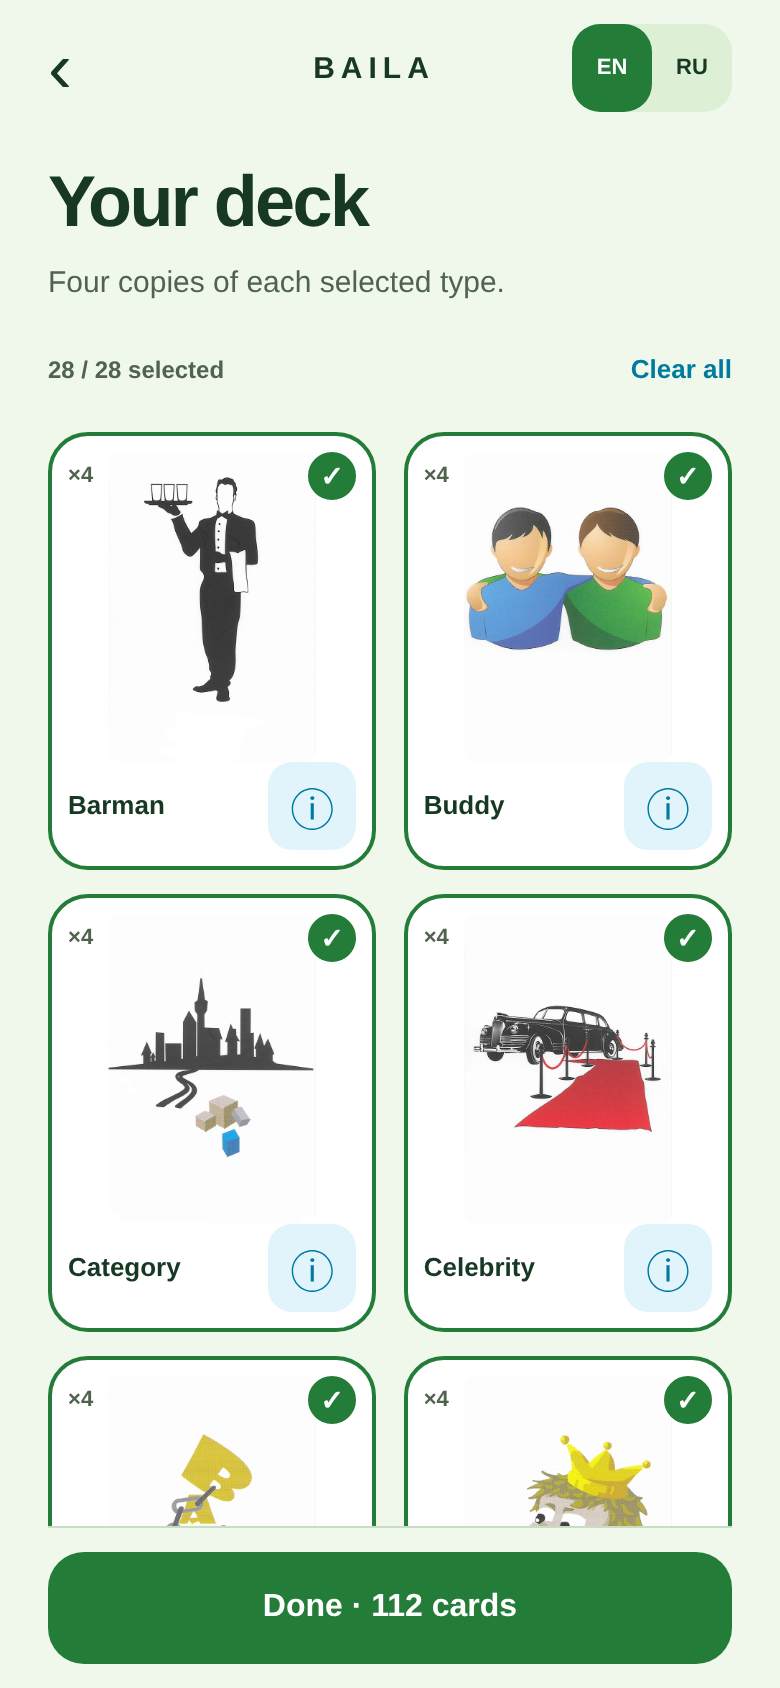
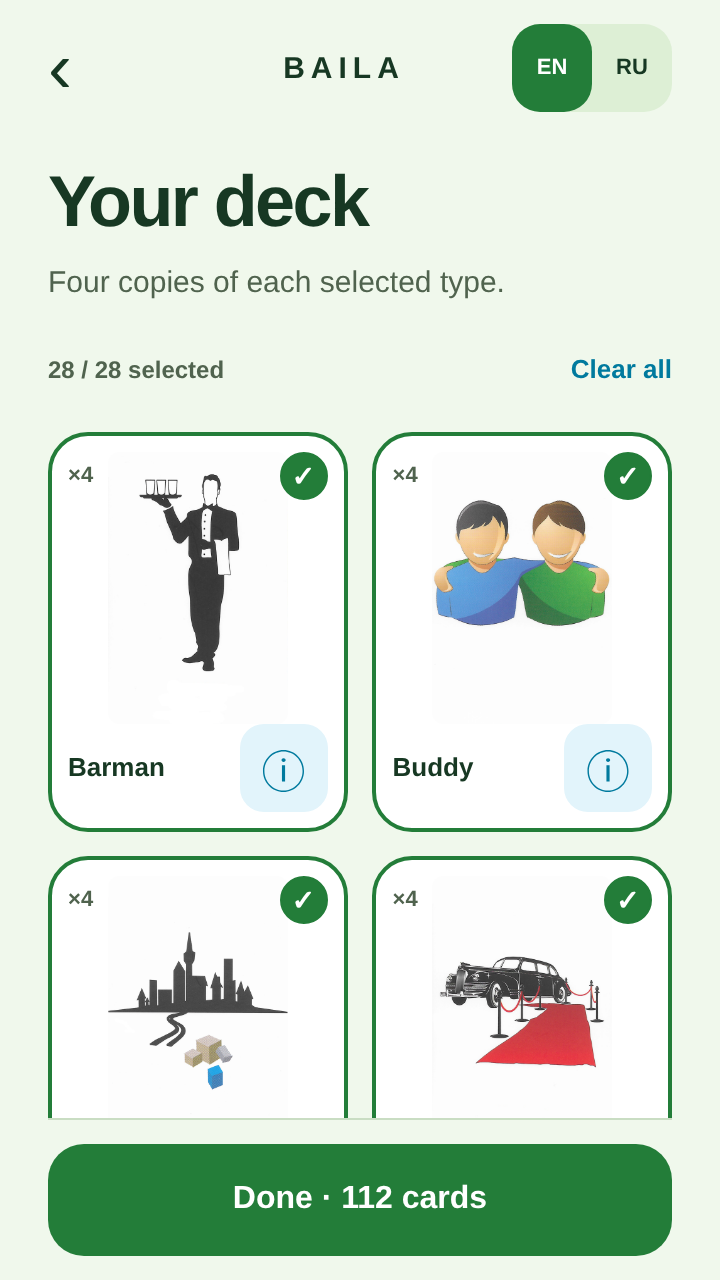
docs(previews): render screen gallery at 9:16 (AI-assisted)
OpenAI Codex regenerated all five actual-component previews at 360x640 CSS pixels (720x1280 output) following giarous's request for shorter screenshots. Update capture documentation. Verified exact image ratios, home controls at three viewport sizes, 3:4 selection tiles, and formatting.

diff --git a/docs/DEVELOPMENT.md b/docs/DEVELOPMENT.md
@@ -52,7 +52,7 @@ npm run screenshots
 
 The tool uses `/usr/bin/chromium` when present, otherwise installed Google Chrome. Set `CHROMIUM_EXECUTABLE` to use another executable. It does not download a browser automatically. Tool dependencies are separate from the mobile app's dependencies.
 
-The script renders actual production components at 390 × 844 CSS pixels (2× output), captures EN/RU home, deck selection, gameplay, and instructions, and writes `docs/screenshots/`. Game randomness is temporarily fixed by the browser fixture to capture a repeatable first card; production randomness is unchanged. It also checks home controls at 320 × 568 and 430 × 932 and the 3:4 selection layout.
+The script renders actual production components at 360 × 640 CSS pixels (9:16 aspect ratio, 2× output), captures EN/RU home, deck selection, gameplay, and instructions, and writes `docs/screenshots/`. Game randomness is temporarily fixed by the browser fixture to capture a repeatable first card; production randomness is unchanged. It also checks home controls at 320 × 568 and 430 × 932 and the 3:4 selection layout.
 
 These are browser-rendered UI previews, not Android screenshots. Verify native dialogs, swipes, animations, and safe areas on a device before a release.
 
